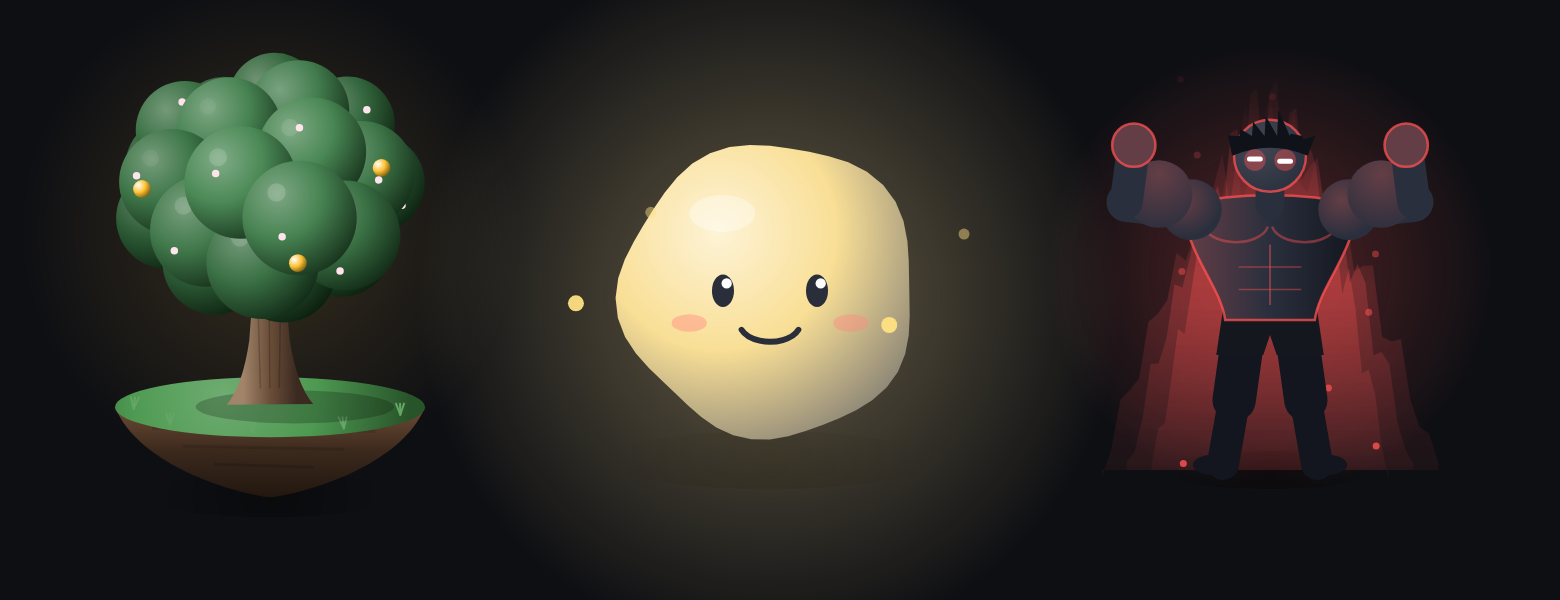
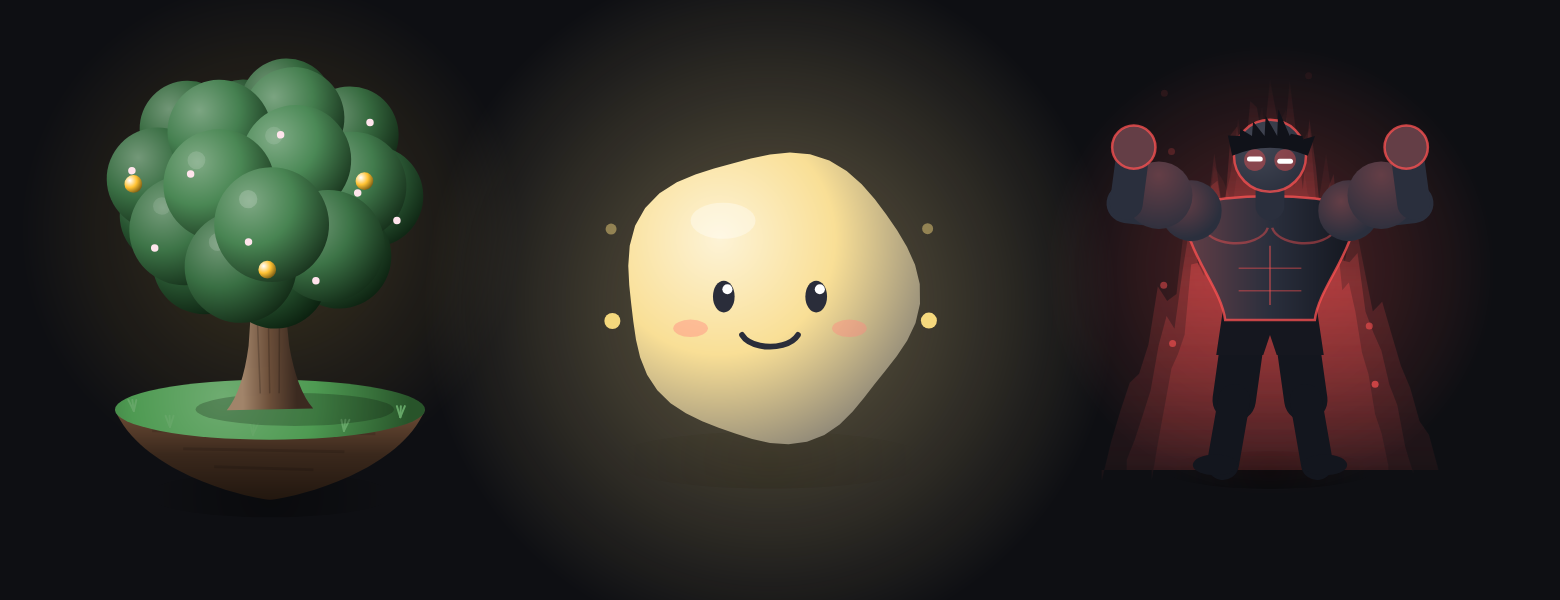
Garden: floating pet size (small / regular / large)
A quiet "Floating pet size" choice under the companions in Garden, per
device: 0.8x, 1x or 1.2x. On Windows it scales the pet (pet-only and
extended bar) and its window; the little timer stays the same size. On
Android it scales the floating chat head.

diff --git a/composeApp/src/desktopMain/kotlin/app/fifteen/DesktopMain.kt b/composeApp/src/desktopMain/kotlin/app/fifteen/DesktopMain.kt
@@ -357,10 +357,12 @@ private fun FloatingBar(
 ) {
     val petMode = prefs.showPet && prefs.barMode == "pet"
     val barW = 460
-    val petW = if (prefs.showPet) 104 else 0
+    // Garden → Floating pet size scales the companion; the little timer under it stays the same size.
+    val s = prefs.petSize.coerceIn(0.6f, 1.5f)
+    val petW = if (prefs.showPet) (104 * s).toInt() else 0
     val (width, h) = when {
-        petMode -> 210 to 258
-        prefs.showPet -> (barW + petW) to 104
+        petMode -> maxOf((210 * s).toInt(), 160) to (196 * s).toInt() + 62
+        prefs.showPet -> (barW + petW) to maxOf((104 * s).toInt(), 50)
         else -> barW to 46
     }
     var poke by remember { mutableIntStateOf(0) }
@@ -466,14 +468,14 @@ private fun FloatingBar(
                 (v.phase == Phase.Idle || (v.phase == Phase.Running && prefs.petTimer == "countdown"))
             if (petMode) {
                 Column(drag, horizontalAlignment = Alignment.CenterHorizontally, verticalArrangement = Arrangement.Bottom) {
-                    PetView(v.db.profile.avatar, v.petState(), Modifier.size(196.dp), interactive = false, poke = poke)
+                    PetView(v.db.profile.avatar, v.petState(), Modifier.size((196 * s).dp), interactive = false, poke = poke)
                     MiniTimer(v, countdown)
                     Spacer(Modifier.height(6.dp))
                 }
             } else {
                 Row(drag, verticalAlignment = Alignment.Bottom) {
                     if (prefs.showPet) {
-                        PetView(v.db.profile.avatar, v.petState(), Modifier.size(100.dp), interactive = false, poke = poke)
+                        PetView(v.db.profile.avatar, v.petState(), Modifier.size((100 * s).dp), interactive = false, poke = poke)
                         Spacer(Modifier.width(4.dp))
                     }
                     Box(Modifier.width(barW.dp).padding(bottom = 4.dp, end = 4.dp)) {

diff --git a/composeApp/src/androidMain/kotlin/app/fifteen/PetOverlay.kt b/composeApp/src/androidMain/kotlin/app/fifteen/PetOverlay.kt
@@ -424,7 +424,7 @@ private fun PetOverlayContent(
     val headView: @androidx.compose.runtime.Composable () -> Unit = {
         Column(horizontalAlignment = Alignment.CenterHorizontally) {
             Box(
-                Modifier.requiredSize(68.dp).pointerInput(Unit) {
+                Modifier.requiredSize((68 * v.prefs.petSize.coerceIn(0.6f, 1.5f)).dp).pointerInput(Unit) {
                     detectTapGestures(onTap = { tap.value() }, onDoubleTap = { double.value() }, onLongPress = { long.value() })
                 },
                 contentAlignment = Alignment.Center,
@@ -440,7 +440,7 @@ private fun PetOverlayContent(
                     val sweep = when (v.phase) { Phase.Running -> 360f * v.progress; Phase.Due -> 360f; Phase.Idle -> 0f }
                     drawArc(if (v.phase == Phase.Due) Ink.mellow else color, -90f, sweep, false, tl, sz, style = Stroke(stroke, cap = StrokeCap.Round))
                 }
-                PetView(v.db.profile.avatar, v.petState(), Modifier.size(58.dp), interactive = false, poke = poke)
+                PetView(v.db.profile.avatar, v.petState(), Modifier.size((58 * v.prefs.petSize.coerceIn(0.6f, 1.5f)).dp), interactive = false, poke = poke)
             }
             if (v.phase != Phase.Idle) {
                 Spacer(Modifier.height(3.dp))

diff --git a/composeApp/src/commonMain/kotlin/app/fifteen/Screens.kt b/composeApp/src/commonMain/kotlin/app/fifteen/Screens.kt
@@ -274,6 +274,16 @@ fun GardenScreen(store: Store, wide: Boolean) {
             Spacer(Modifier.height(10.dp))
             Muted(AVATARS.firstOrNull { it.id == v.db.profile.avatar }?.blurb ?: "", size = 12)
         }
+        // A quiet size control for the floating pet on this device.
+        Spacer(Modifier.height(14.dp))
+        Row(verticalAlignment = Alignment.CenterVertically) {
+            Muted("Floating pet size", size = 12)
+            Spacer(Modifier.width(12.dp))
+            val sizes = listOf(0.8f, 1f, 1.2f)
+            Segmented(listOf("Small", "Regular", "Large"), sizes.indexOfFirst { kotlin.math.abs(it - v.prefs.petSize) < 0.01f }.coerceAtLeast(1)) { i ->
+                store.updatePrefs { it.copy(petSize = sizes[i]) }
+            }
+        }
         Spacer(Modifier.height(28.dp))
         Card(Modifier.fillMaxWidth()) {
             Column {

diff --git a/composeApp/src/commonMain/kotlin/app/fifteen/Model.kt b/composeApp/src/commonMain/kotlin/app/fifteen/Model.kt
@@ -118,6 +118,8 @@ data class LocalPrefs(
     val showNudges: Boolean = true,
     /** Desktop: the pet's little timer shows the countdown (while resting, or when chosen during a block). */
     val countdownOnPet: Boolean = false,
+    /** Size of the floating pet on this device: 0.8 small, 1 regular, 1.2 large. */
+    val petSize: Float = 1f,
     /** Desktop, during a block with the countdown on the pet: which one the pet shows ("block" or "countdown"). */
     val petTimer: String = "block",
     /** Android: show add-on bubbles over other apps (needs the overlay permission). */
